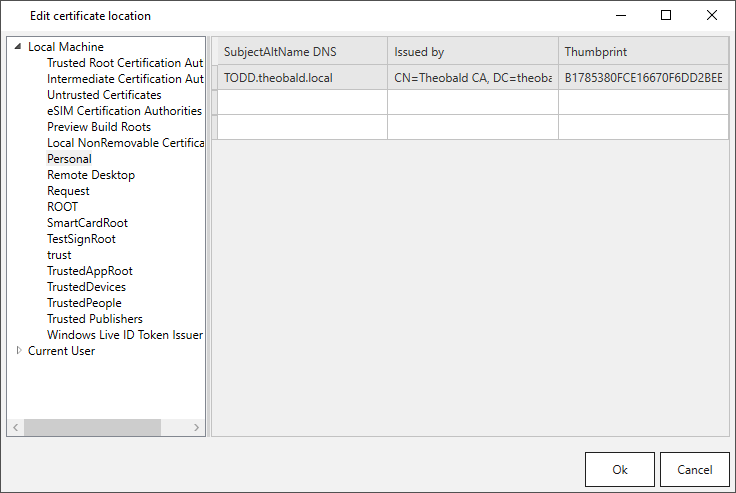
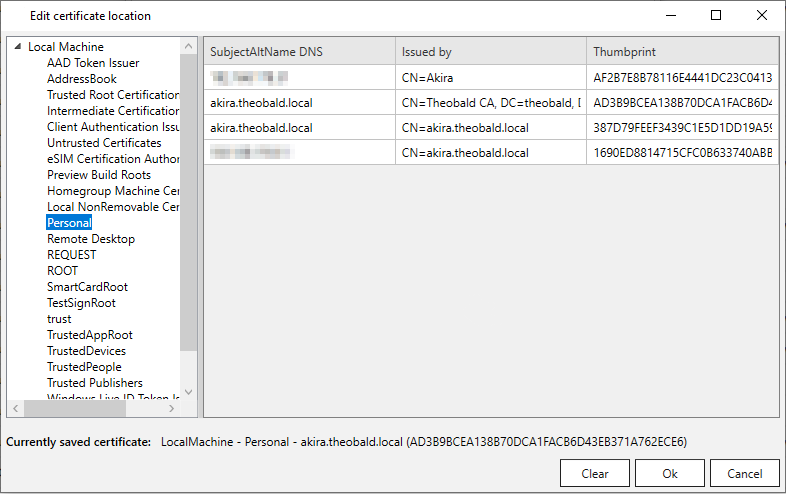
XU: Server settings - certificate screenshot update
+ kleine Rechtschreibfehler

diff --git a/_includes/_content/en/xu-specific/security-xu3/x509-certificate.md b/_includes/_content/en/xu-specific/security-xu3/x509-certificate.md
@@ -1,12 +1,11 @@
-For Transport encryption and authentication require to install an X.509 certificate.
-This chapter describes the requirements to install an X.509 certificate.
+For Transport encryption and authentication it is required to install an X.509 certificate.
 
 There are two approaches for creating an X.509 certificate:
 - Certificate released by an (internal) certification authority (CA) 
 - Self-signed certificate
 
 {: .box-note }
-**Note:** On test environments you can use a self-signed certificate. For production environment it is recommend to use a certificate released by an (internal) certificate authority (CA). 
+**Note:** On test environments you can use a self-signed certificate. For production environment it is recommended to use a certificate released by an (internal) certificate authority (CA). 
 
 ### Create X.509 Certificate
 
@@ -24,10 +23,11 @@ Make sure to have a TLS certificate issued by your IT network team considering t
 1. Import the certificate to the Windows Certificate Store using Microsoft Management Console (mmc).
 In the example shown, the server name is "TODD":
 ![XU-X509-MMC](/img/content/XU-X509-MMC.png){:class="img-responsive"}
-2. Reference to the certificate in the Designer under **[Server] > [Settings] > Tab [Configuration Server / Web Server] > [Select X.509 certificate]**.
+2. Reference to the certificate in the Designer under **Server > Settings > Tab *Web Server* > [Select X.509 certificate]**.
+The name of the currently saved certificate is displayed at the bottom of the window.
 ![Server-settings_manage](/img/content/server-settings_manage.png){:class="img-responsive"}
 ![Server-settings_manage](/img/content/server-settings-certificate-web.png){:class="img-responsive"}
 ![Server-settings_manage](/img/content/certificate-edit-location.png){:class="img-responsive"}
 ![Server-new-start](/img/content/xu/restart-server.png){:class="img-responsive"}
-3. Confirm with **[OK]**. The dialog closes. The performed changes are activated by restarting the XU server.
+3. Confirm with **[OK]**. The performed changes are activated by restarting the XU server.
 

diff --git a/_includes/_content/de/xu-specific/sicherheit/x509-zertifikat.md b/_includes/_content/de/xu-specific/sicherheit/x509-zertifikat.md
@@ -5,7 +5,7 @@ Es gibt zwei Ansätze für die Erstellung eines X.509-Zertifikats:
 - Ein selbst signiertes Zertifikat (self-signed certificate)
 
 {: .box-note }
-**Hinweis:** In Testumgebungen können Sie ein selbst signiertes Zertifikat verwenden. Für Ihre Produktivumgebung wird ein von einer (internen) Zertifizierungsstelle (CA) freigegebenes Zertifikat empfohlen. 
+**Hinweis:** In Testumgebungen können Sie ein selbst signiertes Zertifikat verwenden. Für Ihre Produktionsumgebung wird ein von einer (internen) Zertifizierungsstelle (CA) freigegebenes Zertifikat empfohlen. 
 
 
 ### X.509-Zertifikat erstellen
@@ -24,9 +24,10 @@ Lassen Sie ein TLS Zertifikat von Ihrem IT-Netzwerk-Team unter Beachtung folgend
 1. Importieren Sie das Zertifikat über die Microsoft Management Console (mmc) in den Windows Certificate Manager. <br>
 Im abgebildeten Beispiel lautet der Servername "TODD":
 ![XU-X509-MMC](/img/content/XU-X509-MMC.png){:class="img-responsive"}
-2. Verweisen Sie auf das Zertifikat im Designer unter **[Server] > [Settings] > Tab [Configuration Server / Web Server] > [Select X.509 certificate]**.
+2. Verweisen Sie auf das Zertifikat im Designer unter **Server > Settings > Tab *Web Server* > [Select X.509 certificate]**. 
+Der Name des aktuell gespeicherten Zertifikats wird im unteren Bereich des Fensters angezeigt.
 ![Server-settings_manage](/img/content/server-settings_manage.png){:class="img-responsive"}
 ![Server-settings_manage](/img/content/server-settings-certificate-web.png){:class="img-responsive"}
 ![Server-settings_manage](/img/content/certificate-edit-location.png){:class="img-responsive"}
 ![Server-new-start](/img/content/xu/restart-server.png){:class="img-responsive"}
-3. Bestätigen Sie mit **[OK]**. Der Dialog wird geschlossen. Die vorgenommenen Änderungen werden durch den Neustart des XU-Server aktiviert.
+3. Bestätigen Sie mit **[OK]**. Die vorgenommenen Änderungen werden durch den Neustart des XU-Server aktiviert.
